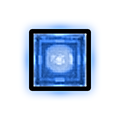
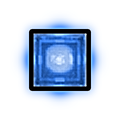
Boton prendido: brazos de la cruz del glow un poco mas largos [skip ci]
Claude-Session: https://claude.ai/code/session_01LmYTuHAKQSU8qhR6nNkVAi

diff --git a/UI_definitiva/generadores/button_from_ref.py b/UI_definitiva/generadores/button_from_ref.py
@@ -54,7 +54,8 @@ def build(src, body, name, lit):
         yy_g, xx_g = np.mgrid[0:n, 0:n] + 0.5
         cross = np.maximum(np.exp(-((xx_g - 60)**2)/(2*8.0**2)), np.exp(-((yy_g - 60)**2)/(2*8.0**2)))   # mas luz saliendo del medio de cada lado (forma de cruz +)
         gl = np.array(Image.fromarray((black*255).astype(np.uint8)).filter(ImageFilter.GaussianBlur(4.5))).astype(float)/255.0*(0.85 + 0.85*cross)*(1 - black)
-        gl = np.clip(gl, 0, 0.95)
+        far = np.array(Image.fromarray((black*255).astype(np.uint8)).filter(ImageFilter.GaussianBlur(8.0))).astype(float)/255.0*0.9*cross*(1 - black)   # los brazos de la cruz llegan un poco mas lejos
+        gl = np.clip(gl + far, 0, 0.95)
         GC = hsv_to_rgb(np.array([H, 0.78, 0.98]))
         res[..., :3] = res[..., :3]*(1 - gl[..., None]) + GC*gl[..., None]; res[..., 3] = res[..., 3]*(1 - gl) + gl
     Ab = black*(1 - body_a)                    # negro solo donde no hay cuerpo
